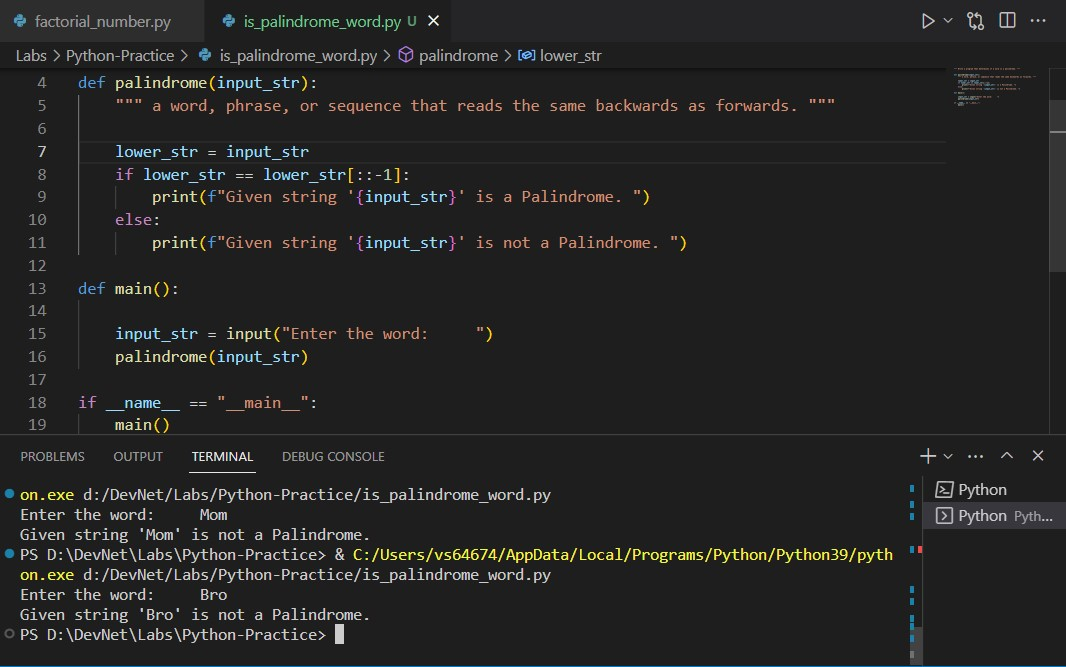
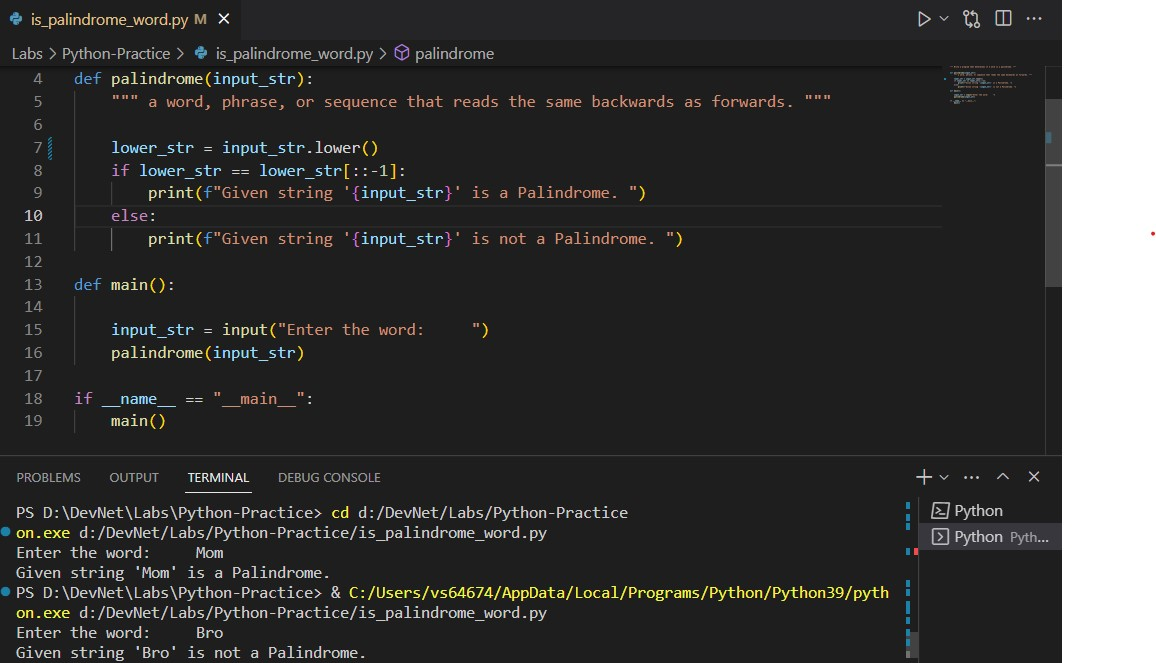
Modify labs

diff --git a/Labs/Python-Practice/is_palindrome_word.py b/Labs/Python-Practice/is_palindrome_word.py
@@ -4,7 +4,7 @@
 def palindrome(input_str):
     """ a word, phrase, or sequence that reads the same backwards as forwards. """
     
-    lower_str = input_str
+    lower_str = input_str.lower()
     if lower_str == lower_str[::-1]:
         print(f"Given string '{input_str}' is a Palindrome. ")
     else:
